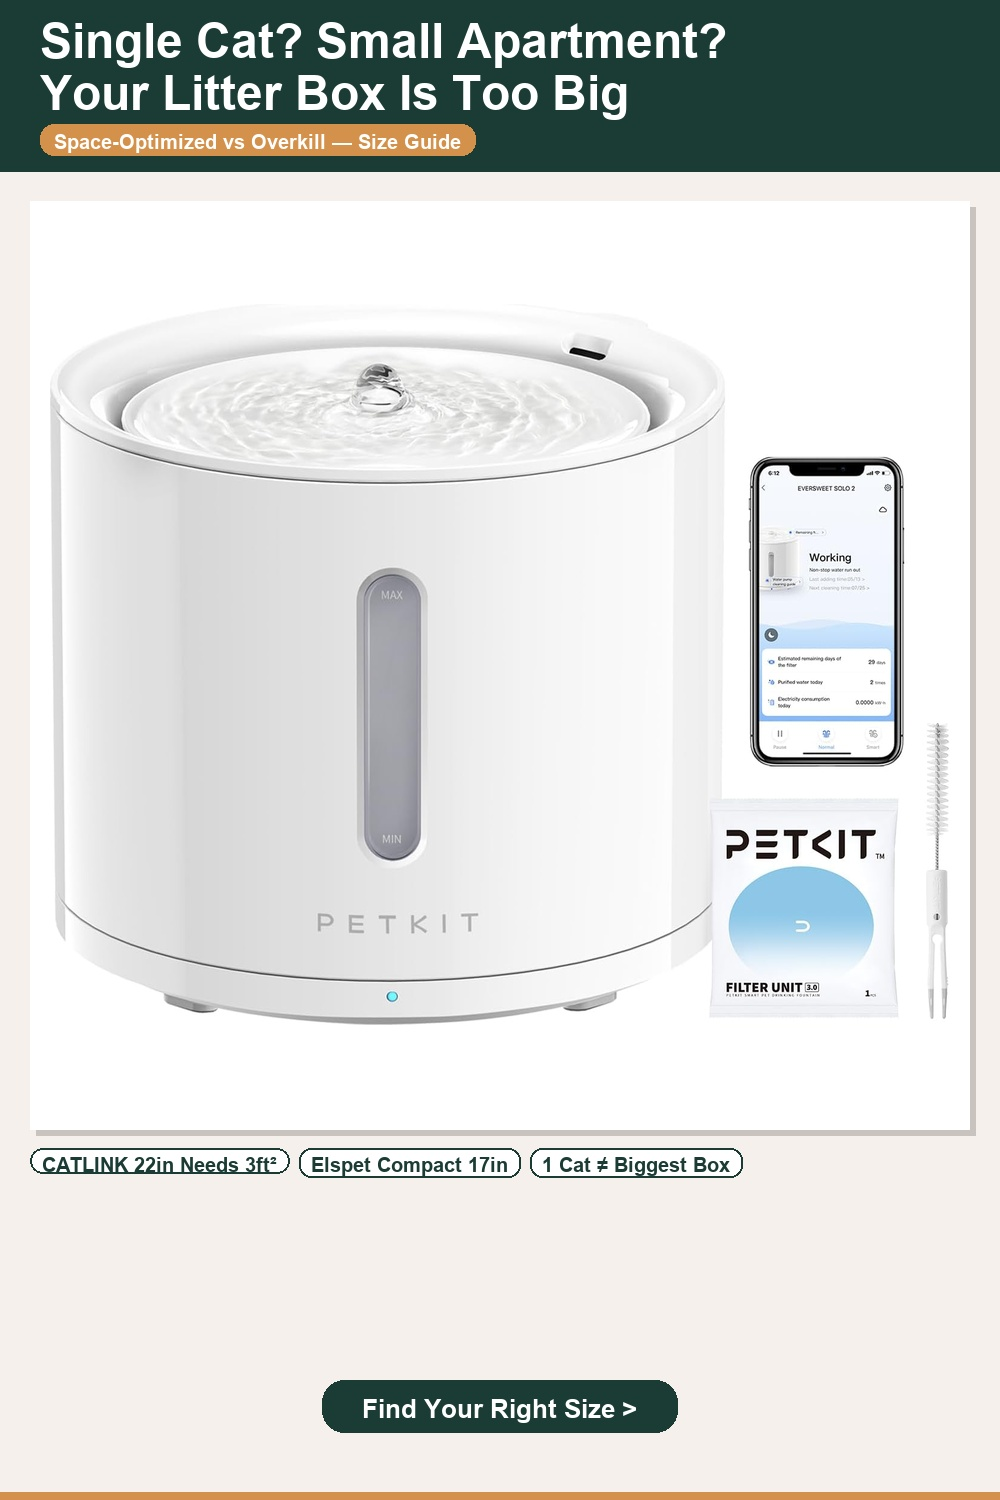
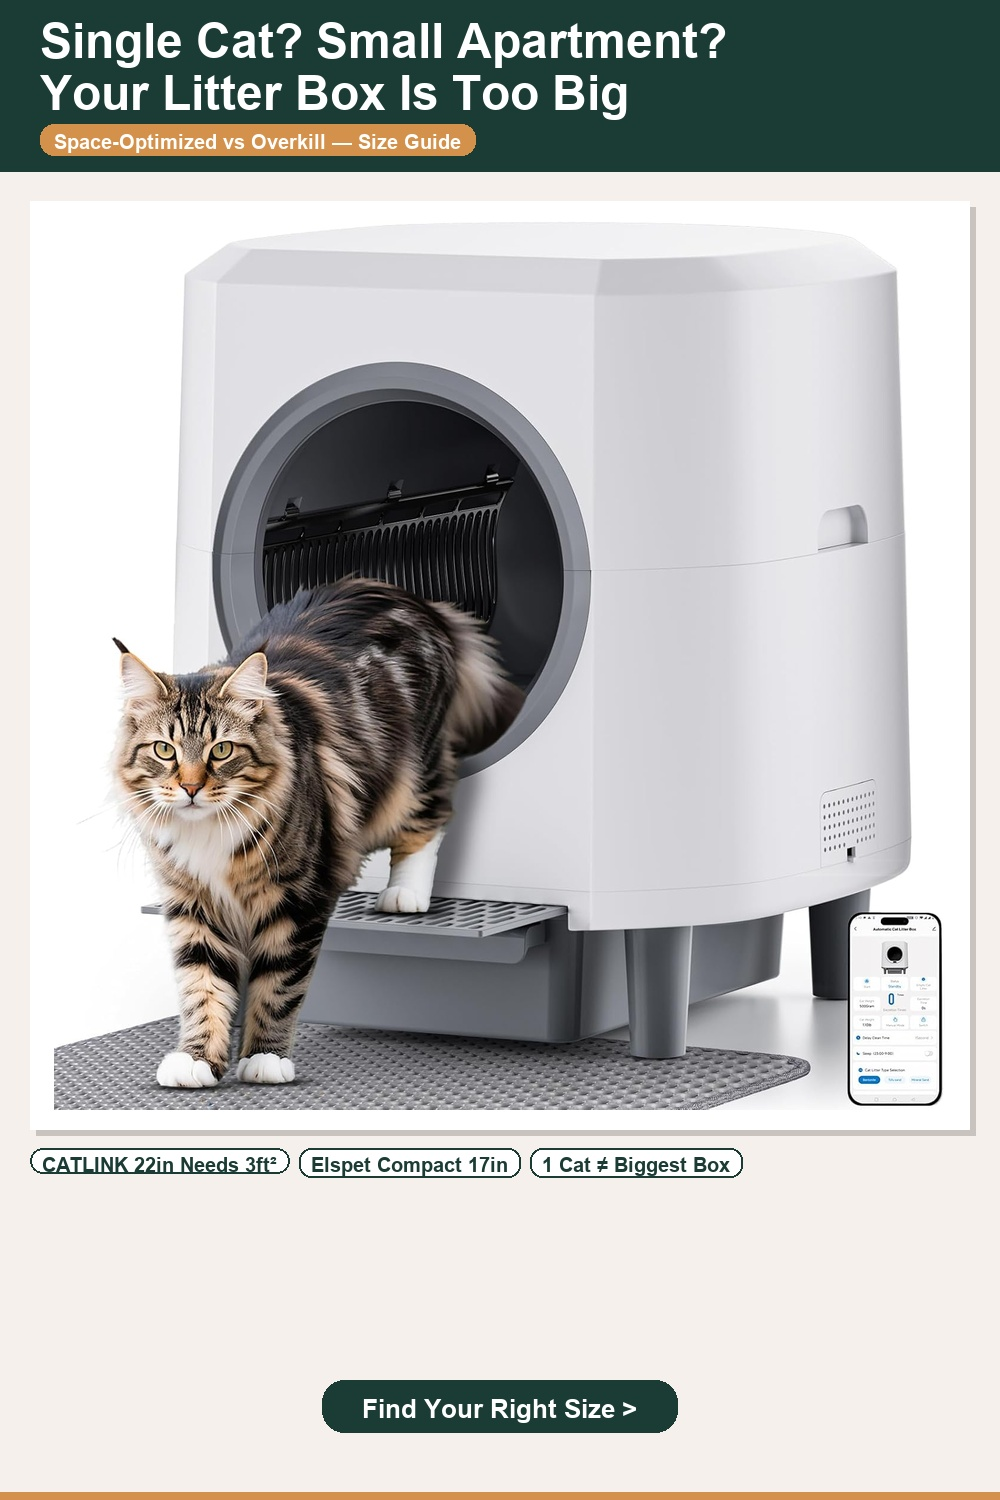
fix: Pin#6 图片修正 — petkit fountain→elspet litter box

diff --git a/pins/generate-pins-v2.py b/pins/generate-pins-v2.py
@@ -133,7 +133,7 @@ PINS = [
         "cta": "See the Price Breakdown",
     },
     {
-        "id": "pin78_exp6", "img": "petkit-eversweet.jpg",
+        "id": "pin78_exp6", "img": "elspet-pro.jpg",
         "title": "Single Cat? Small Apartment?\nYour Litter Box Is Too Big",
         "badge": "Space-Optimized vs Overkill — Size Comparison",
         "tags": ["CATLINK 22\" Needs 3ft²", "Elspet Compact 17\"", "1 Cat ≠ Biggest Box", "Measure Before You Buy"],